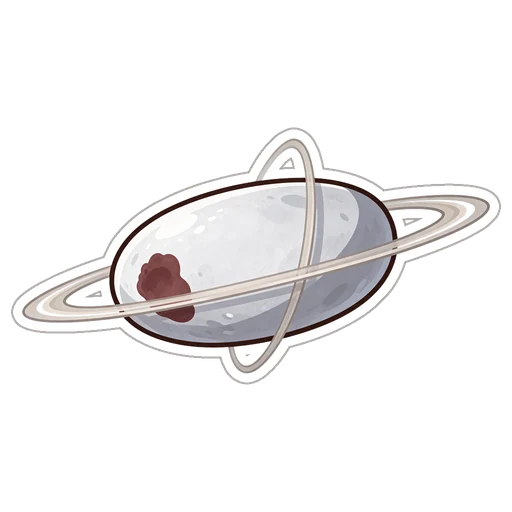
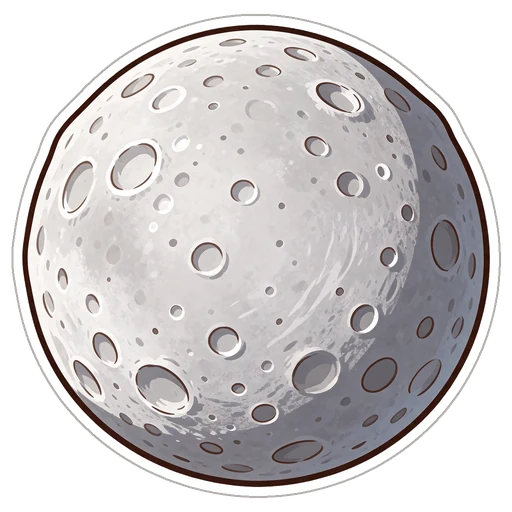
Corpos do espaço: troca 4 figurinhas sem imagem oficial por corpos fotografados pela NASA
- Haumea -> Réia e Makemake -> Tétis (luas de Saturno, fotos da Cassini): dados da NASA e do JPL
- Pulsar do Caranguejo -> Nebulosa do Caranguejo (M1; imagem oficial do Hubble e do Chandra)
- Sirius B -> Nebulosa da Hélice (Caldwell 63; imagem oficial do Hubble)
Posições, raridade e banco de dados não mudam.

Claude-Session: https://claude.ai/code/session_014sDEFwooAoyXychsffZ8Em

diff --git a/espaco.js b/espaco.js
@@ -11,7 +11,7 @@ var FC=window.FC;
 var IC={"De onde vem o nome":"📖","Onde fica":"📍","Distância da Terra":"🚀","Distância do Sol":"☀","Tamanho":"📏","Temperatura":"🌡","Luas":"🌙","Descoberta":"🔭",
  "Cor":"🎨","Cores":"🎨","Tipo":"🏷","Companheira":"👯","Planetas":"🪐","Brilho":"✨","Sistema":"🔗","Um ano":"📅","Volta":"🔄","Visita":"🛰","Visitada":"🛰",
  "Cratera":"🕳","Dia":"⏱","Giro":"🌀","Rotação":"🌀","Superfície":"🧊","Massa":"⚖","Foto":"📸","Fotos":"📸","Origem":"💥","Vista em":"👀","Idade":"⏳",
- "Visível":"👁","Estrelas":"⭐","Berçário":"🍼","Material":"🌫","Próxima visita":"📆","Mancha":"🔴","Catálogo":"🗂","O que é":"❓","Também conhecida como":"🏷"};
+ "Visível":"👁","Estrelas":"⭐","Berçário":"🍼","Material":"🌫","Próxima visita":"📆","Mancha":"🔴","Catálogo":"🗂","O que é":"❓","Centro":"💫","Também conhecida como":"🏷"};
 
 var NOME="De onde vem o nome",ONDE="Onde fica",DT="Distância da Terra",DS="Distância do Sol",TAM="Tamanho",TEMP="Temperatura",LUAS="Luas",DESC="Descoberta";
 var J="Fica na região de Júpiter: de uns 590 a 965 milhões de km da Terra.";
@@ -55,10 +55,10 @@ var D=[
   "Foi o primeiro planeta anão visitado por uma sonda: a Dawn, da NASA, chegou lá em 2015. Ceres tem grandes depósitos de sal."],
  ["Éris","Planeta anão",[[NOME,"Deusa grega da discórdia. Combina: a descoberta dela causou uma briga entre cientistas sobre o que é um planeta."],[ONDE,"No Sistema Solar externo, muito além de Netuno."],[DS,"Em média 10 bilhões de km (68× a distância da Terra)."],[TAM,"2.400 km (quase como Plutão)"],[TEMP,"−217 a −243 °C"],[LUAS,"1: Disnomia"]],
   "Anunciada em 2005, era apelidada de “Xena”. Tem mais massa que Plutão e reflete 96% da luz que recebe. A descoberta dela levou à nova definição de planeta, em 2006."],
- ["Haumea","Planeta anão",[[NOME,"Deusa havaiana do parto e da fertilidade."],[ONDE,"No Cinturão de Kuiper, além de Netuno."],[DS,"Em média 6,5 bilhões de km (43× a distância da Terra)."],[TAM,"1.740 km no equador (oval)"],["Rotação","Gira em menos de 4 horas"],[LUAS,"2: Hiʻiaka e Namaka"]],
-  "É esticada como uma bola de rúgbi porque gira muito depressa. Ela também tem um anel, descoberto em 2017."],
- ["Makemake","Planeta anão",[[NOME,"Deus da fertilidade e criador da humanidade para o povo Rapa Nui, da Ilha de Páscoa."],[ONDE,"No Cinturão de Kuiper, além de Netuno."],[DS,"Em média 6,8 bilhões de km (45,8× a distância da Terra)."],[TAM,"1.430 km (60% de Plutão)"],["Superfície","Gelo de metano, avermelhado"],[LUAS,"1: MK 2"]],
-  "Foi achado pouco depois da Páscoa de 2005, e a equipe o apelidou de “Coelhinho da Páscoa”. O nome oficial homenageia a Ilha de Páscoa."],
+ ["Réia","Lua de Saturno",[[NOME,"Réia era uma titã (deusa) da mitologia grega, filha de Urano e Gaia e mãe de vários deuses, como Zeus."],[ONDE,"Lua de Saturno, a 527 mil km do planeta. Fica mais longe de Saturno que Dione e Tétis."],[DT,SA],[TAM,"1.527 km (2ª maior de Saturno)"],[TEMP,"−174 °C ao sol, −220 °C na sombra"],[DESC,"Giovanni Cassini, 1672"]],
+  "Réia é feita de cerca de 3/4 de gelo e 1/4 de rocha: uma bola de neve suja e cheia de crateras."],
+ ["Tétis","Lua de Saturno",[[NOME,"Tétis era uma titã da mitologia grega, filha de Urano e Gaia e mãe dos rios e das Oceânides."],[ONDE,"Lua de Saturno, a uns 295 mil km do planeta."],[DT,SA],[TAM,"1.066 km (5ª maior de Saturno)"],[TEMP,"−187 °C"],[DESC,"Giovanni Cassini, 1684"]],
+  "Tétis tem uma cratera enorme, a Odisseu, com 400 km (quase 2/5 do tamanho da lua), e um vale gigante, o Ítaca, com 2.000 km de comprimento. É feita quase só de gelo de água."],
  ["Lua","Lua da Terra",[["O que é","O único satélite natural da Terra. O lado oculto dela só foi visto em 1959, por uma nave soviética."],[ONDE,"Gira em volta da Terra. É o nosso satélite natural."],[DT,"384.400 km em média: de 363.300 km (mais perto) a 405.500 km."],[TAM,"3.475 km (1/4 da Terra)"],[TEMP,"−20 °C em média"],["Visita","Apollo 11, em 1969"]],
   "A Lua se afasta da Terra uns 3,8 cm por ano, mais ou menos o quanto crescem as unhas. E ela sempre mostra o mesmo lado para nós."],
  ["Fobos","Lua de Marte",[[NOME,"“Medo”, em grego. Era filho de Ares, o deus da guerra (o Marte dos romanos)."],[ONDE,"Gira em volta de Marte, bem pertinho: a 9.375 km do centro do planeta."],[DT,MA],[TAM,"22 km (forma de batata)"],["Volta","7 h 39 min em Marte"],[DESC,"Asaph Hall, 1877"]],
@@ -111,10 +111,10 @@ var D=[
   "Foi o primeiro exoplaneta achado em volta de uma estrela parecida com o Sol, e rendeu o Nobel de Física de 2019. Fica 7 vezes mais perto da estrela do que Mercúrio do Sol: é um “Júpiter quente”. A imagem é uma ilustração artística."],
  ["Sagitário A*","Buraco negro",[[NOME,"Fica na direção da constelação de Sagitário. “A*” é o nome da forte fonte de rádio que existe lá."],[ONDE,"No centro da Via Láctea, a nossa galáxia."],[DT,"Entre 26.000 e 27.000 anos-luz."],[TAM,"Cabe na órbita de Mercúrio"],["Massa","4,3 milhões de Sóis"],["Foto","Primeira imagem: 2022"]],
   "Nem a luz escapa de um buraco negro. O anel brilhante da foto é gás quente em volta dele. Provar que ele existe rendeu o Nobel de Física de 2020 a Reinhard Genzel e Andrea Ghez."],
- ["Pulsar do Caranguejo","Estrela de nêutrons",[[NOME,"Fica no centro da Nebulosa do Caranguejo, que lembra um caranguejo."],[ONDE,"Constelação de Touro."],[DT,"Cerca de 6.500 anos-luz."],[TAM,"≈ 20 km de largura"],["Giro","30 voltas por segundo"],["Origem","Supernova vista em 1054"]],
-  "É o que sobrou de uma estrela que explodiu em 1054, registrada por astrônomos chineses. Pisca 30 vezes por segundo, como um farol. Uma colher de chá de estrela de nêutrons pesaria cerca de 1 bilhão de toneladas."],
- ["Sirius B","Anã branca",[[NOME,"É a companheira da estrela Sirius A. O “B” indica a segunda estrela do par."],[ONDE,"Gira em volta de Sirius A, no Cão Maior, uma volta a cada 50 anos."],[DT,"8,6 anos-luz, junto com Sirius A."],[TAM,"90% da largura da Terra"],[TEMP,"Cerca de 25.000 °C"],["Massa","A mesma do Sol"]],
-  "É uma anã branca: o que sobra de uma estrela quando acaba o combustível. Tem a massa do Sol num corpo quase do tamanho da Terra, e a gravidade lá é 400 mil vezes a da Terra."],
+ ["Nebulosa do Caranguejo","Nebulosa · restos de supernova",[["Também conhecida como","M1, o 1º objeto do catálogo do astrônomo Charles Messier, que a confundiu com o cometa Halley."],[ONDE,"Constelação de Touro."],[DT,"Cerca de 6.500 anos-luz."],[TAM,"Cerca de 10 anos-luz de largura"],["Origem","Supernova vista em 1054"],["Centro","Pulsar: 30 voltas por segundo"]],
+  "No centro há um pulsar que gira 30 vezes por segundo. O Hubble mostrou faixas de luz saindo dele à metade da velocidade da luz. A explosão foi registrada por astrônomos chineses em 1054."],
+ ["Nebulosa da Hélice","Nebulosa planetária",[["Também conhecida como","Caldwell 63, no catálogo Caldwell de objetos do céu."],[ONDE,"Constelação de Aquário."],[DT,"Cerca de 650 anos-luz: uma das nebulosas planetárias mais próximas da Terra."],[TAM,"Quase 3 anos-luz de largura"],["O que é","Gás de uma estrela parecida com o Sol"],[DESC,"Karl Harding, 1823"]],
+  "Uma nebulosa planetária é o gás brilhante em volta de uma estrela parecida com o Sol que está morrendo. Nas fotos do Hubble aparecem nós de gás com forma de cometa."],
  ["Supernova 1987A","Explosão de estrela",[[NOME,"SN quer dizer supernova, 1987 é o ano e A mostra que foi a 1ª do ano."],[ONDE,"Na Grande Nuvem de Magalhães, uma galáxia vizinha vista no céu do sul."],[DT,"Cerca de 168.000 anos-luz."],[TAM,"Anel interno: ≈ 1,4 ano-luz"],["Vista em","23 de fevereiro de 1987"],["Tipo","Supernova"]],
   "Foi a supernova mais brilhante vista da Terra desde 1604. Os anéis são gás que a estrela soltou milhares de anos antes de explodir, iluminado pela explosão."],
  ["Quasar 3C 273","Quasar",[[NOME,"3C vem do Terceiro Catálogo de Cambridge, de fontes de rádio. 273 é o número na lista."],[ONDE,"Constelação de Virgem."],[DT,"Cerca de 2,5 bilhões de anos-luz."],[TAM,"Jato de mais de 200 mil anos-luz"],["Tipo","Centro de galáxia"],[DESC,"1963, Maarten Schmidt"]],
